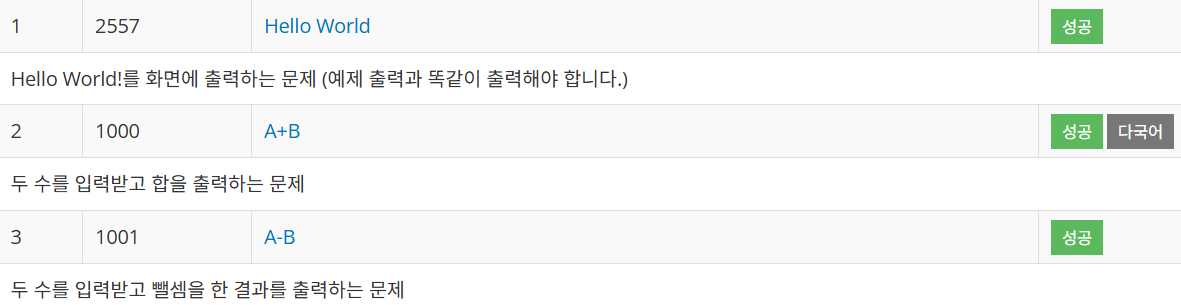
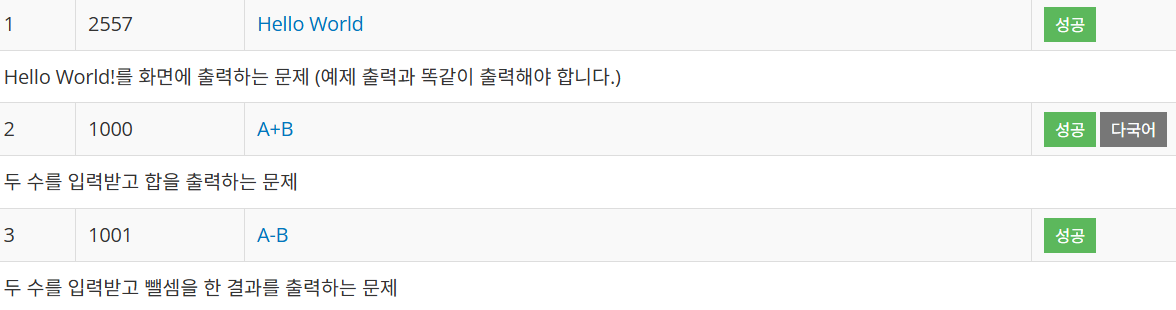
2024 / 11 / 24

diff --git a/BAEKJOON/C/1Grade/9_10430.c b/BAEKJOON/C/1Grade/9_10430.c
@@ -1,0 +1,11 @@
+#include <stdio.h>
+
+int main(void) {
+    int A, B, C;
+    scanf("%d %d %d", &A, &B, &C);
+    printf("%d\n", (A+B)%C);
+    printf("%d\n",  ((A%C) + (B%C))%C);
+    printf("%d\n", (A*B)%C);
+    printf("%d\n",  ((A%C) * (B%C))%C);
+    return 0;
+}

diff --git a/BAEKJOON/C/1Grade/7_10926.c b/BAEKJOON/C/1Grade/7_10926.c
@@ -1,0 +1,8 @@
+#include <stdio.h>
+ 
+ int main(void) {
+    char id[50];
+    scanf("%s", id);
+    printf("%s??!", id);
+    return 0;
+ }

diff --git a/BAEKJOON/C/1Grade/8_18108.c b/BAEKJOON/C/1Grade/8_18108.c
@@ -1,0 +1,8 @@
+#include <stdio.h>
+
+int main(void) {
+    int y;
+    scanf("%d", &y);
+    printf("%d", y-543);
+    return 0;
+}

diff --git a/README.md b/README.md
@@ -1,6 +1,11 @@
 ----------
 # coding_study
 ----------
+
+* 가능한 백준, 프로그래머스 사이트에서 3문제씩 해결하기.
+* png/ 으로 이미지 파일 루트 맞추기.
+* 개인 공부 코딩은 README 밑에 추가하여 작성.
+
 ## 백준
 
 - 2024 / 11 / 22 : 3문제 해결
@@ -9,6 +14,9 @@
 - 2024 / 11 / 23 : 3문제 해결 (1008번 나누기 문제는 나누기 특징에 대해 공부가 조금 더 필요할 듯 하다.)
 - ![alt text](png/image-2.png)
 
+- 2024 / 11 / 24 : 3문제 해결
+- ![alt text](png/image-4.png)
+
 ## 프로그래머스
 
 - 2024 / 11 / 22 : 3문제 해결
@@ -16,4 +24,7 @@
 
 - 2024 / 11 / 23 : 3문제 해결
 - ![alt text](png/image-3.png)
+
+- 2024 / 11 / 24 : 3문제 해결
+- ![alt text](png/image.png)
 ----------
